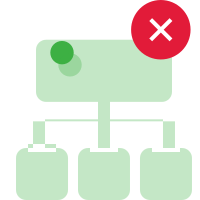
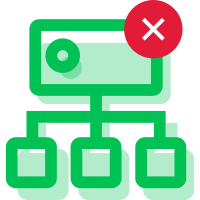
修改图标

diff --git a/src/component/jtopo.js b/src/component/jtopo.js
@@ -4,38 +4,36 @@ import network from '../img/network.jpg';
 
 import LAN_up from '../img/LAN_up.png';
 import LAN_down from '../img/LAN_down.png';
-import LAN_no from '../img/LAN_no.png';
 
-import WAN_up from '../img/WAN_up.jpg';
-import WAN_down from '../img/WAN_down.jpg';
-// import WAN_no from '../img/WAN_no.png';
+
+import WAN_up from '../img/WAN_up.png';
+import WAN_down from '../img/WAN_down.png';
 
 import WLAN_up from '../img/WLAN_up.png';
 import WLAN_down from '../img/WLAN_down.png';
-import WLAN_no from '../img/WLAN_no.png';
+
 
 import Bluetooth_up from '../img/Bluetooth_up.png';
 import Bluetooth_down from '../img/Bluetooth_down.png';
-import Bluetooth_no from '../img/Bluetooth_no.png';
+
 
 import OBD_up from '../img/OBD_up.png';
 import OBD_down from '../img/OBD_down.png';
-import OBD_no from '../img/OBD_no.png';
+
 
 import IO_up from '../img/IO_up.png';
 import IO_down from '../img/IO_down.png';
-import IO_no from '../img/IO_no.png';
+
 
 import DIO_up from '../img/DIO_up.png';
 import DIO_down from '../img/DIO_down.png';
-import DIO_no from '../img/DIO_no.png';
+
 
 import GNSS_up from '../img/GNSS_up.png';
 import GNSS_down from '../img/GNSS_down.png';
-import GNSS_no from '../img/GNSS_no.png';
 
 import Equierment from '../img/shebei.png';
-import Equierment0 from '../img/shebei1.png';
+import Equierment0 from '../img/shebei2.png';
 
 
 
@@ -161,9 +159,9 @@ for(let i = 0;i < interfaces_keys.length;i++) {
     let value = select_Icon(key);
     images[key] = value;//LAN:"LAN_up"
     }
-console.log(images);
-const w = 50;
-const h = 40;
+
+const w = 40;
+const h = 30;
 const data = {
     roots: [{
       imag: network,
@@ -268,8 +266,8 @@ export default class Jtopo extends Component {
             group.addShape('text', {
                 attrs: {
                     ...scoreTextStyle,
-                    x: 25,
-                    y: 60,
+                    x: 18,
+                    y: 45,
                     text: model.name,
                 },
                 });
@@ -296,7 +294,7 @@ export default class Jtopo extends Component {
         },
         getVGap: function getVGap() /* d */ {
           // 竖向间距
-          return 10;
+          return 20;
         }
       });
       var tree = new G6.Tree({
